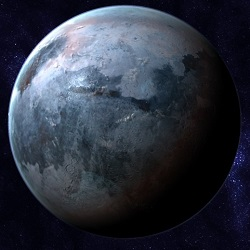
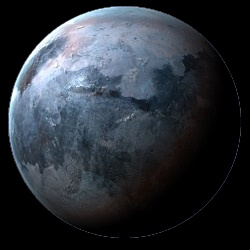
"fixed most square images. Fixed bug with tidal locked planet colony costs"

diff --git a/Bodies.py b/Bodies.py
@@ -100,7 +100,7 @@ def DrawBodies(game):
 
   for bodyID in game.systemBodies:
     body = game.systemBodies[bodyID]
-
+    #screen_parent_size = 0
     body_draw_cond, draw_color_body, body_min_size, body_min_dist = GetDrawConditions(game, 'Body', body)
     if (body_draw_cond):
       screen_body_pos = game.WorldPos2ScreenPos(body['Pos'])
@@ -110,17 +110,21 @@ def DrawBodies(game):
 
       orbit_draw_cond, draw_color_orbit, void, min_orbit = GetDrawConditions(game, 'Orbit', body)
       orbitOnScreen = body['Orbit']*game.systemScale
+      parentID = body['ParentID']
 
-      if (orbit_draw_cond) and (orbitOnScreen > body_min_dist):
+      if parentID in system['Stars']:
+        screen_parent_pos = game.WorldPos2ScreenPos(system['Stars'][parentID]['Pos'])
+        #screen_parent_size = 15
+      elif parentID in game.systemBodies:
+        screen_parent_pos = game.WorldPos2ScreenPos(game.systemBodies[parentID]['Pos'])
+        #screen_parent_size = 9
+      else:
+        screen_parent_pos = game.WorldPos2ScreenPos((0,0))
+        #screen_parent_size = 1
+
+      if (orbit_draw_cond) and (orbitOnScreen > min_orbit) and (orbitOnScreen > body_min_dist):
         E = body['Eccentricity']
-        parentID = body['ParentID']
-
-        if parentID in system['Stars']:
-          screen_parent_pos = game.WorldPos2ScreenPos(system['Stars'][parentID]['Pos'])
-        elif parentID in game.systemBodies:
-          screen_parent_pos = game.WorldPos2ScreenPos(game.systemBodies[parentID]['Pos'])
-        else:
-          screen_parent_pos = game.WorldPos2ScreenPos((0,0))
+        
         Utils.DrawEllipticalOrbit(game.surface, draw_color_orbit, screen_parent_pos, orbitOnScreen, E, body['EccentricityAngle'],body['Bearing'], min_orbit)
         
       # check if we want to draw the object
@@ -130,6 +134,9 @@ def DrawBodies(game):
       else:
         body_draw_cond = False  
       if (body_draw_cond) and (orbitOnScreen > body_min_dist):
+        #if (orbitOnScreen < screen_parent_size):
+        #  screen_body_pos = Utils.SubTuples(screen_body_pos, screen_parent_size)
+
         # draw body
         if (body['Image'] is not None):
           if (screen_body_pos[0]-radius_on_screen < game.width and screen_body_pos[0]+radius_on_screen > 0 and 
@@ -178,31 +185,31 @@ def GetDrawConditions(game, thing2Draw, body):
         draw = True
         color = game.color_Moon
         min_size = game.minPixelSize_Moon
-        min_dist = 10
+        min_dist = 0 if (body['Colonized'] and game.showColonizedBodies) else 15
     elif (body['Class']  == 'Comet'):
       if (game.show_Comets or filter):
         draw = True
         color = game.color_Comet
         min_size = game.minPixelSize_Small
-        min_dist = 10
+        min_dist = 0 if (body['Colonized'] and game.showColonizedBodies) else 50
     elif (body['Class']  == 'Asteroid'):
       if (game.show_Asteroids or filter):
         draw = True
         color = game.color_Asteroid
         min_size = game.minPixelSize_Small
-        min_dist = 10
+        min_dist = 0 if (body['Colonized'] and game.showColonizedBodies) else 50
     elif (body['Type'] == 'Planet Small'):
       if (game.show_DwarfPlanets or filter):
         draw = True
         color = game.color_DwarfPlanet
         min_size = game.minPixelSize_Planet
-        min_dist = 10
+        min_dist = 0 if (body['Colonized'] and game.showColonizedBodies) else 50
     elif (body['Class'] == 'Planet' and body['Type'] != 'Planet Small' ):
       if (game.show_Planets or filter):
         draw = True
         color = game.color_Planet
         min_size = game.minPixelSize_Planet
-        min_dist = 10
+        min_dist = 0 if (body['Colonized'] and game.showColonizedBodies) else 15
   elif (thing2Draw == 'Orbit'):
     if (body['Class'] == 'Moon'):
       if (game.showOrbits_Moons and (game.show_Moons or filter)):
@@ -397,12 +404,12 @@ def GetSystemBodies(game):
     gHFactor = body[24]
     density = body[25]
     gravity = body[26]
-      
+    tidalMultiPlier = 1
+
     if (bodyType == 'Planet Gas Giant' or bodyType == 'Planet Super Jovian'):
       popCapacity = 0
     else:
       hydroMultiPlier = 1
-      tidalMultiPlier = 1
       if (hydro > 75):
         hydroMultiPlier = -0.0396*hydro+3.97
       if (tidalLock and bodyClass == 'Planet'):

diff --git a/MainModule.py b/MainModule.py
@@ -36,10 +36,10 @@ class Game():
     self.systemScale = self.systemScaleStart
     self.mousePos = (0,0)
     self.radius_Sun = 696000
-    self.minPixelSize_Star = 10
-    self.minPixelSize_Planet = 6
-    self.minPixelSize_Moon = 4
-    self.minPixelSize_Small = 3
+    self.minPixelSize_Star = 15
+    self.minPixelSize_Planet = 9
+    self.minPixelSize_Moon = 5
+    self.minPixelSize_Small = 5
     self.mouseDragged = (0,0)
     self.refreshData = True
     self.screenCenterBeforeDrag = self.screenCenter
@@ -352,6 +352,14 @@ class Game():
     gui_cl = self.MakeClickable(name, bb, self.ToggleGUI, par=idGUI, parent=self.GUI_identifier, enabled = False)
     self.GUI_Elements[idGUI] = GUI.GUI(self, idGUI, name,bb, gui_cl, parent=FilterBodiesGUI.GetID(), enabled = self.showArtifactsBodies)
     FilterBodiesGUI.AddChildren(idGUI)
+
+
+  def InitGases(self):
+    gases = {}
+    results = self.db.execute('''SELECT GasID, Name, Dangerous, DangerousLevel from DIM_Gases;''').fetchall()
+    for result in results:
+      gases[result[0]] = {'Name':result[1], 'DangerFactor':result[2], 'DangerousLevel':result[3]/1000}
+    return gases
 
 
   def Draw(self):
@@ -1112,14 +1120,6 @@ class Game():
       self.info_cat_deposits_expanded = not self.info_cat_deposits_expanded
 
     self.reDraw_InfoWindow = True
-
-
-  def InitGases(self):
-    gases = {}
-    results = self.db.execute('''SELECT GasID, Name, Dangerous, DangerousLevel from DIM_Gases;''').fetchall()
-    for result in results:
-      gases[result[0]] = {'Name':result[1], 'DangerFactor':result[2], 'DangerousLevel':result[3]/1000}
-    return gases
 
 
   def GetCCreduction(self):

diff --git a/Utils.py b/Utils.py
@@ -553,6 +553,7 @@ def GetTimeScale(hours):
   else:
     return '%2.1f %s'%(round(timeframe,1), unit)
 
+
 def GetFormattedNumber(number):
   if (abs(number) > 0.99):
     fraction = abs(round(number,1)-number)
